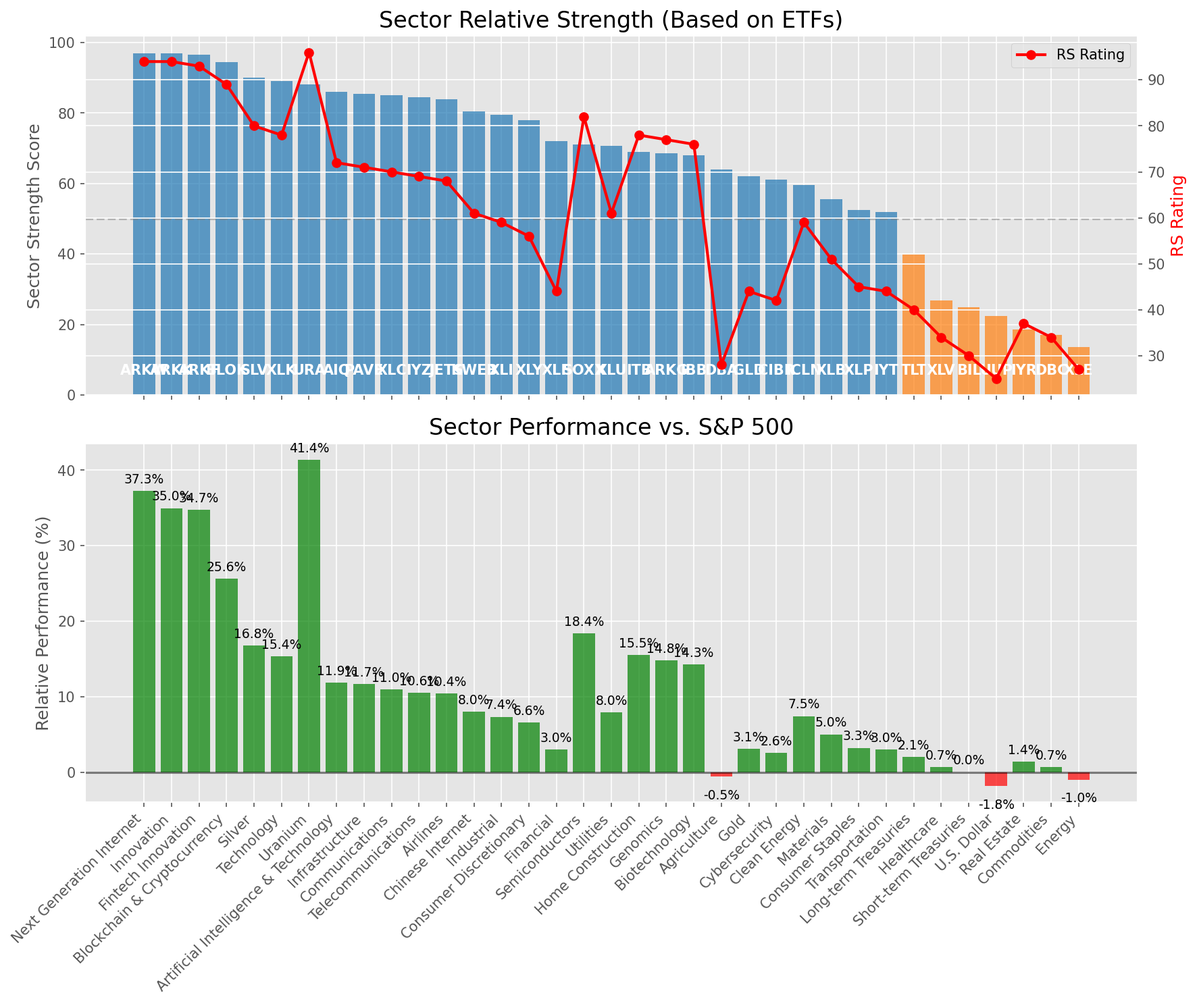
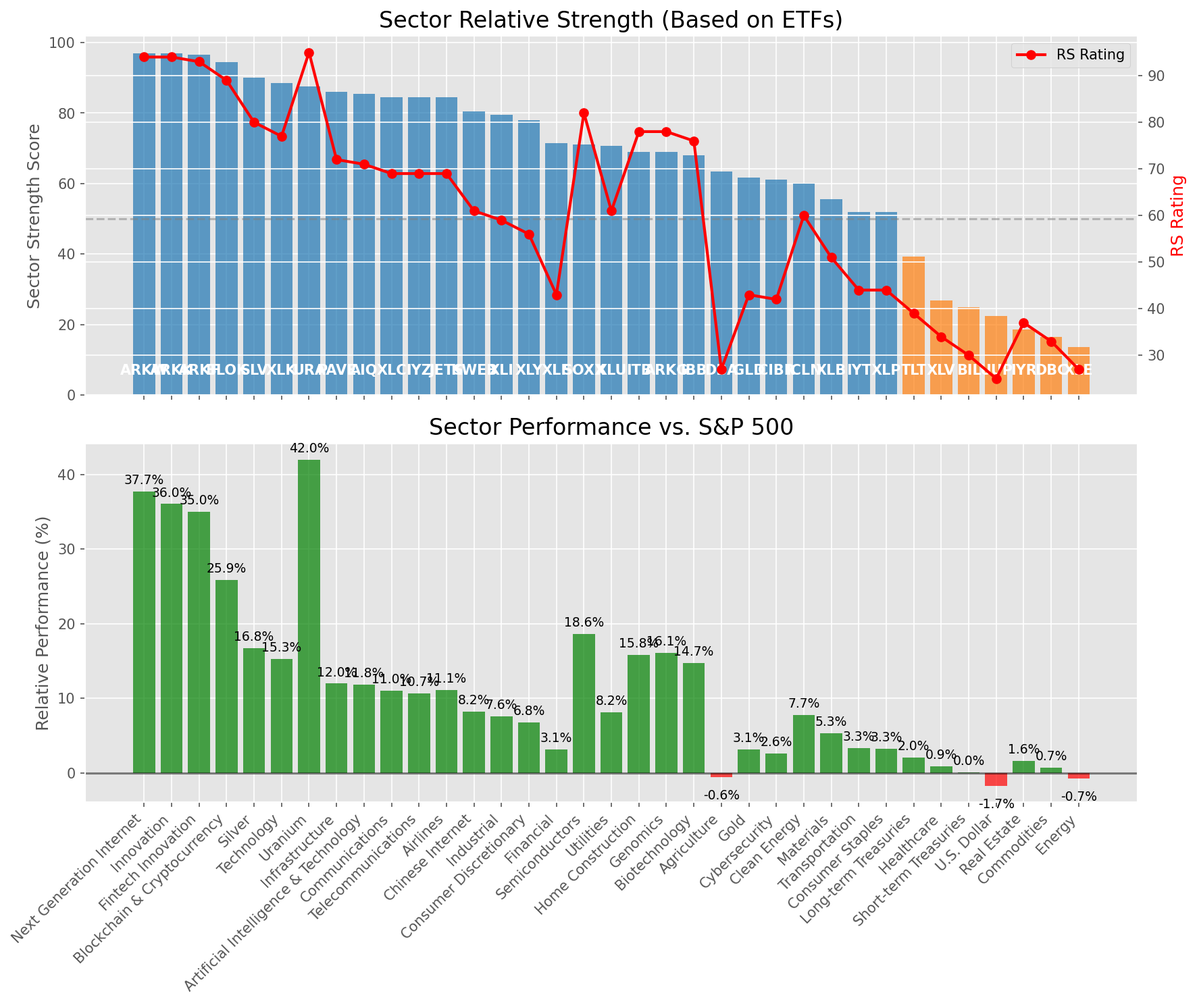
Add market report for 2025-08-13

diff --git a/oneil_relative_strength_report_2025-08-13.md b/oneil_relative_strength_report_2025-08-13.md
@@ -9,11 +9,11 @@
 | Metric | Value |
 |--------|-------|
 | **Market Valuation** | **Overvalued** |
-| **Current Ratio** | 10.45 |
+| **Current Ratio** | 10.46 |
 | **Historical Mean** | 9.72 |
 | **Standard Deviation** | 0.50 |
 | **Z-Score (StdDev from Mean)** | 1.41 |
-| **Total Market Cap** | $317.02 trillion |
+| **Total Market Cap** | $317.32 trillion |
 | **GDP** | $30.33 trillion |
 
 ## **Market Insights**
@@ -49,41 +49,41 @@ Based on William O'Neil's Relative Strength Methodology
 
 | ETF | Strength | RS Rating | Performance | Above Key MAs | Trend | Sector |
 |-----|----------|-----------|-------------|--------------|-------|--------|
-| [ARKW](https://www.tradingview.com/chart/?symbol=ARKW) | 97.0 | 94.0 | 37.29% | 10d ✓, 50d ✓, 200d ✓ | ↗ | Next Generation Internet |
-| [ARKK](https://www.tradingview.com/chart/?symbol=ARKK) | 97.0 | 94.0 | 34.99% | 10d ✓, 50d ✓, 200d ✓ | ↗ | Innovation |
-| [ARKF](https://www.tradingview.com/chart/?symbol=ARKF) | 96.5 | 93.0 | 34.74% | 10d ✓, 50d ✓, 200d ✓ | ↗ | Fintech Innovation |
-| [BLOK](https://www.tradingview.com/chart/?symbol=BLOK) | 94.5 | 89.0 | 25.61% | 10d ✓, 50d ✓, 200d ✓ | ↗ | Blockchain & Cryptocurrency |
+| [ARKW](https://www.tradingview.com/chart/?symbol=ARKW) | 97.0 | 94.0 | 37.72% | 10d ✓, 50d ✓, 200d ✓ | ↗ | Next Generation Internet |
+| [ARKK](https://www.tradingview.com/chart/?symbol=ARKK) | 97.0 | 94.0 | 36.05% | 10d ✓, 50d ✓, 200d ✓ | ↗ | Innovation |
+| [ARKF](https://www.tradingview.com/chart/?symbol=ARKF) | 96.5 | 93.0 | 34.98% | 10d ✓, 50d ✓, 200d ✓ | ↗ | Fintech Innovation |
+| [BLOK](https://www.tradingview.com/chart/?symbol=BLOK) | 94.5 | 89.0 | 25.87% | 10d ✓, 50d ✓, 200d ✓ | ↗ | Blockchain & Cryptocurrency |
 | [SLV](https://www.tradingview.com/chart/?symbol=SLV) | 90.0 | 80.0 | 16.76% | 10d ✓, 50d ✓, 200d ✓ | ↗ | Silver |
-| [XLK](https://www.tradingview.com/chart/?symbol=XLK) | 89.0 | 78.0 | 15.37% | 10d ✓, 50d ✓, 200d ✓ | ↗ | Technology |
-| [URA](https://www.tradingview.com/chart/?symbol=URA) | 88.1 | 96.0 | 41.40% | 10d ✗, 50d ✓, 200d ✓ | ↗ | Uranium |
-| [AIQ](https://www.tradingview.com/chart/?symbol=AIQ) | 86.0 | 72.0 | 11.88% | 10d ✓, 50d ✓, 200d ✓ | ↗ | Artificial Intelligence & Technology |
-| [PAVE](https://www.tradingview.com/chart/?symbol=PAVE) | 85.5 | 71.0 | 11.70% | 10d ✓, 50d ✓, 200d ✓ | ↗ | Infrastructure |
-| [XLC](https://www.tradingview.com/chart/?symbol=XLC) | 85.0 | 70.0 | 10.95% | 10d ✓, 50d ✓, 200d ✓ | ↗ | Communications |
-| [IYZ](https://www.tradingview.com/chart/?symbol=IYZ) | 84.5 | 69.0 | 10.57% | 10d ✓, 50d ✓, 200d ✓ | ↗ | Telecommunications |
-| [JETS](https://www.tradingview.com/chart/?symbol=JETS) | 84.0 | 68.0 | 10.43% | 10d ✓, 50d ✓, 200d ✓ | ↗ | Airlines |
-| [KWEB](https://www.tradingview.com/chart/?symbol=KWEB) | 80.5 | 61.0 | 8.00% | 10d ✓, 50d ✓, 200d ✓ | ↗ | Chinese Internet |
-| [XLI](https://www.tradingview.com/chart/?symbol=XLI) | 79.5 | 59.0 | 7.36% | 10d ✓, 50d ✓, 200d ✓ | ↗ | Industrial |
-| [XLY](https://www.tradingview.com/chart/?symbol=XLY) | 78.0 | 56.0 | 6.57% | 10d ✓, 50d ✓, 200d ✓ | ↗ | Consumer Discretionary |
-| [XLF](https://www.tradingview.com/chart/?symbol=XLF) | 72.0 | 44.0 | 3.04% | 10d ✓, 50d ✓, 200d ✓ | ↗ | Financial |
-| [SOXX](https://www.tradingview.com/chart/?symbol=SOXX) | 71.0 | 82.0 | 18.37% | 10d ✓, 50d ✓, 200d ✓ | ↘ | Semiconductors |
-| [XLU](https://www.tradingview.com/chart/?symbol=XLU) | 70.6 | 61.0 | 7.97% | 10d ✗, 50d ✓, 200d ✓ | ↗ | Utilities |
-| [ITB](https://www.tradingview.com/chart/?symbol=ITB) | 69.0 | 78.0 | 15.52% | 10d ✓, 50d ✓, 200d ✓ | ↘ | Home Construction |
-| [ARKG](https://www.tradingview.com/chart/?symbol=ARKG) | 68.5 | 77.0 | 14.84% | 10d ✓, 50d ✓, 200d ✓ | ↘ | Genomics |
-| [IBB](https://www.tradingview.com/chart/?symbol=IBB) | 68.0 | 76.0 | 14.26% | 10d ✓, 50d ✓, 200d ✓ | ↘ | Biotechnology |
-| [DBA](https://www.tradingview.com/chart/?symbol=DBA) | 64.0 | 28.0 | -0.54% | 10d ✓, 50d ✓, 200d ✓ | ↗ | Agriculture |
-| [GLD](https://www.tradingview.com/chart/?symbol=GLD) | 62.1 | 44.0 | 3.09% | 10d ✗, 50d ✓, 200d ✓ | ↗ | Gold |
-| [CIBR](https://www.tradingview.com/chart/?symbol=CIBR) | 61.1 | 42.0 | 2.57% | 10d ✓, 50d ✗, 200d ✓ | ↗ | Cybersecurity |
-| [ICLN](https://www.tradingview.com/chart/?symbol=ICLN) | 59.5 | 59.0 | 7.46% | 10d ✓, 50d ✓, 200d ✓ | ↘ | Clean Energy |
-| [XLB](https://www.tradingview.com/chart/?symbol=XLB) | 55.5 | 51.0 | 5.04% | 10d ✓, 50d ✓, 200d ✓ | ↘ | Materials |
-| [XLP](https://www.tradingview.com/chart/?symbol=XLP) | 52.5 | 45.0 | 3.25% | 10d ✓, 50d ✓, 200d ✓ | ↘ | Consumer Staples |
-| [IYT](https://www.tradingview.com/chart/?symbol=IYT) | 52.0 | 44.0 | 2.99% | 10d ✓, 50d ✓, 200d ✓ | ↘ | Transportation |
-| [TLT](https://www.tradingview.com/chart/?symbol=TLT) | 39.8 | 40.0 | 2.07% | 10d ✓, 50d ✓, 200d ✗ | ↘ | Long-term Treasuries |
-| [XLV](https://www.tradingview.com/chart/?symbol=XLV) | 26.9 | 34.0 | 0.73% | 10d ✓, 50d ✗, 200d ✗ | ↘ | Healthcare |
+| [XLK](https://www.tradingview.com/chart/?symbol=XLK) | 88.5 | 77.0 | 15.30% | 10d ✓, 50d ✓, 200d ✓ | ↗ | Technology |
+| [URA](https://www.tradingview.com/chart/?symbol=URA) | 87.6 | 95.0 | 41.99% | 10d ✗, 50d ✓, 200d ✓ | ↗ | Uranium |
+| [PAVE](https://www.tradingview.com/chart/?symbol=PAVE) | 86.0 | 72.0 | 11.97% | 10d ✓, 50d ✓, 200d ✓ | ↗ | Infrastructure |
+| [AIQ](https://www.tradingview.com/chart/?symbol=AIQ) | 85.5 | 71.0 | 11.84% | 10d ✓, 50d ✓, 200d ✓ | ↗ | Artificial Intelligence & Technology |
+| [XLC](https://www.tradingview.com/chart/?symbol=XLC) | 84.5 | 69.0 | 11.02% | 10d ✓, 50d ✓, 200d ✓ | ↗ | Communications |
+| [IYZ](https://www.tradingview.com/chart/?symbol=IYZ) | 84.5 | 69.0 | 10.66% | 10d ✓, 50d ✓, 200d ✓ | ↗ | Telecommunications |
+| [JETS](https://www.tradingview.com/chart/?symbol=JETS) | 84.5 | 69.0 | 11.08% | 10d ✓, 50d ✓, 200d ✓ | ↗ | Airlines |
+| [KWEB](https://www.tradingview.com/chart/?symbol=KWEB) | 80.5 | 61.0 | 8.25% | 10d ✓, 50d ✓, 200d ✓ | ↗ | Chinese Internet |
+| [XLI](https://www.tradingview.com/chart/?symbol=XLI) | 79.5 | 59.0 | 7.56% | 10d ✓, 50d ✓, 200d ✓ | ↗ | Industrial |
+| [XLY](https://www.tradingview.com/chart/?symbol=XLY) | 78.0 | 56.0 | 6.77% | 10d ✓, 50d ✓, 200d ✓ | ↗ | Consumer Discretionary |
+| [XLF](https://www.tradingview.com/chart/?symbol=XLF) | 71.5 | 43.0 | 3.14% | 10d ✓, 50d ✓, 200d ✓ | ↗ | Financial |
+| [SOXX](https://www.tradingview.com/chart/?symbol=SOXX) | 71.0 | 82.0 | 18.59% | 10d ✓, 50d ✓, 200d ✓ | ↘ | Semiconductors |
+| [XLU](https://www.tradingview.com/chart/?symbol=XLU) | 70.6 | 61.0 | 8.17% | 10d ✗, 50d ✓, 200d ✓ | ↗ | Utilities |
+| [ITB](https://www.tradingview.com/chart/?symbol=ITB) | 69.0 | 78.0 | 15.84% | 10d ✓, 50d ✓, 200d ✓ | ↘ | Home Construction |
+| [ARKG](https://www.tradingview.com/chart/?symbol=ARKG) | 69.0 | 78.0 | 16.07% | 10d ✓, 50d ✓, 200d ✓ | ↘ | Genomics |
+| [IBB](https://www.tradingview.com/chart/?symbol=IBB) | 68.0 | 76.0 | 14.69% | 10d ✓, 50d ✓, 200d ✓ | ↘ | Biotechnology |
+| [DBA](https://www.tradingview.com/chart/?symbol=DBA) | 63.5 | 27.0 | -0.57% | 10d ✓, 50d ✓, 200d ✓ | ↗ | Agriculture |
+| [GLD](https://www.tradingview.com/chart/?symbol=GLD) | 61.6 | 43.0 | 3.12% | 10d ✗, 50d ✓, 200d ✓ | ↗ | Gold |
+| [CIBR](https://www.tradingview.com/chart/?symbol=CIBR) | 61.1 | 42.0 | 2.62% | 10d ✓, 50d ✗, 200d ✓ | ↗ | Cybersecurity |
+| [ICLN](https://www.tradingview.com/chart/?symbol=ICLN) | 60.0 | 60.0 | 7.73% | 10d ✓, 50d ✓, 200d ✓ | ↘ | Clean Energy |
+| [XLB](https://www.tradingview.com/chart/?symbol=XLB) | 55.5 | 51.0 | 5.30% | 10d ✓, 50d ✓, 200d ✓ | ↘ | Materials |
+| [IYT](https://www.tradingview.com/chart/?symbol=IYT) | 52.0 | 44.0 | 3.33% | 10d ✓, 50d ✓, 200d ✓ | ↘ | Transportation |
+| [XLP](https://www.tradingview.com/chart/?symbol=XLP) | 52.0 | 44.0 | 3.25% | 10d ✓, 50d ✓, 200d ✓ | ↘ | Consumer Staples |
+| [TLT](https://www.tradingview.com/chart/?symbol=TLT) | 39.3 | 39.0 | 2.04% | 10d ✓, 50d ✓, 200d ✗ | ↘ | Long-term Treasuries |
+| [XLV](https://www.tradingview.com/chart/?symbol=XLV) | 26.9 | 34.0 | 0.90% | 10d ✓, 50d ✗, 200d ✗ | ↘ | Healthcare |
 | [BIL](https://www.tradingview.com/chart/?symbol=BIL) | 24.9 | 30.0 | 0.03% | 10d ✓, 50d ✗, 200d ✗ | ↘ | Short-term Treasuries |
-| [UUP](https://www.tradingview.com/chart/?symbol=UUP) | 22.4 | 25.0 | -1.80% | 10d ✗, 50d ✓, 200d ✗ | ↘ | U.S. Dollar |
-| [IYR](https://www.tradingview.com/chart/?symbol=IYR) | 18.5 | 37.0 | 1.41% | 10d ✗, 50d ✗, 200d ✗ | ↘ | Real Estate |
-| [DBC](https://www.tradingview.com/chart/?symbol=DBC) | 17.0 | 34.0 | 0.74% | 10d ✗, 50d ✗, 200d ✗ | ↘ | Commodities |
-| [XLE](https://www.tradingview.com/chart/?symbol=XLE) | 13.5 | 27.0 | -0.96% | 10d ✗, 50d ✗, 200d ✗ | ↘ | Energy |
+| [UUP](https://www.tradingview.com/chart/?symbol=UUP) | 22.4 | 25.0 | -1.74% | 10d ✗, 50d ✓, 200d ✗ | ↘ | U.S. Dollar |
+| [IYR](https://www.tradingview.com/chart/?symbol=IYR) | 18.5 | 37.0 | 1.63% | 10d ✗, 50d ✗, 200d ✗ | ↘ | Real Estate |
+| [DBC](https://www.tradingview.com/chart/?symbol=DBC) | 16.5 | 33.0 | 0.67% | 10d ✗, 50d ✗, 200d ✗ | ↘ | Commodities |
+| [XLE](https://www.tradingview.com/chart/?symbol=XLE) | 13.5 | 27.0 | -0.71% | 10d ✗, 50d ✗, 200d ✗ | ↘ | Energy |
 
 ### **Sector ETF Performance Interpretation**
 
@@ -100,173 +100,168 @@ This table shows the relative strength metrics for different market sectors base
 
 The current market leadership is coming from the following sectors: **Next Generation Internet, Innovation, Fintech Innovation**.
 
-The **Next Generation Internet** sector (represented by **ARKW**) is showing particularly strong relative strength with an RS rating of 94.0 and performance of 37.29% vs. the S&P 500. This sector is trading above its 10-day, 50-day, 200-day moving average(s). Investors should consider focusing on high RS stocks within these leading sectors for potential outperformance.
+The **Next Generation Internet** sector (represented by **ARKW**) is showing particularly strong relative strength with an RS rating of 94.0 and performance of 37.72% vs. the S&P 500. This sector is trading above its 10-day, 50-day, 200-day moving average(s). Investors should consider focusing on high RS stocks within these leading sectors for potential outperformance.
 
 ---
 
 ## **Buy Recommendations**
 
-The following 76 stocks show exceptional relative strength:
+The following 77 stocks show exceptional relative strength:
 
 | RS Rating | Buy Score | Current Price | Chart | Name | Ticker |
 |-----------|-----------|---------------|-------|------|--------|
-| 100 | 100 | $74.02 | [Chart](https://www.tradingview.com/chart/?symbol=MP) | MP Materials Corp. | MP |
-| 100 | 100 | $121.52 | [Chart](https://www.tradingview.com/chart/?symbol=CRDO) | Credo Technology Group Holding Ltd Ordinary Shares | CRDO |
-| 100 | 100 | $67.83 | [Chart](https://www.tradingview.com/chart/?symbol=KTOS) | Kratos Defense & Security Solutions, Inc. | KTOS |
-| 100 | 100 | $204.81 | [Chart](https://www.tradingview.com/chart/?symbol=CLS) | Celestica, Inc. | CLS |
-| 100 | 100 | $69.69 | [Chart](https://www.tradingview.com/chart/?symbol=NBIS) | Nebius Group N.V. Class A Ordinary Shares | NBIS |
-| 99 | 100 | $93.42 | [Chart](https://www.tradingview.com/chart/?symbol=GDXU) | MicroSectors Gold Miners 3x Leveraged ETN | GDXU |
-| 99 | 100 | $98.62 | [Chart](https://www.tradingview.com/chart/?symbol=RYTM) | Rhythm Pharmaceuticals, Inc. Common Stock | RYTM |
-| 98 | 100 | $45.14 | [Chart](https://www.tradingview.com/chart/?symbol=TTMI) | TTM Technologies Inc | TTMI |
-| 98 | 100 | $200.73 | [Chart](https://www.tradingview.com/chart/?symbol=COOP) | Mr. Cooper Group Inc. Common Stock | COOP |
-| 98 | 100 | $175.22 | [Chart](https://www.tradingview.com/chart/?symbol=FUTU) | Futu Holdings Limited American Depositary Shares | FUTU |
-| 98 | 100 | $24.51 | [Chart](https://www.tradingview.com/chart/?symbol=LQDA) | Liquidia Corporation Common Stock | LQDA |
-| 97 | 100 | $88.56 | [Chart](https://www.tradingview.com/chart/?symbol=LIF) | Life360, Inc. Common Stock | LIF |
-| 96 | 100 | $25.31 | [Chart](https://www.tradingview.com/chart/?symbol=ACAD) | Acadia Pharmaceuticals Inc. | ACAD |
-| 96 | 100 | $122.14 | [Chart](https://www.tradingview.com/chart/?symbol=SANM) | Sanmina  Corp | SANM |
-| 96 | 100 | $99.70 | [Chart](https://www.tradingview.com/chart/?symbol=EBAY) | eBay Inc | EBAY |
-| 96 | 100 | $67.25 | [Chart](https://www.tradingview.com/chart/?symbol=MRCY) | Mercury Systems Inc. | MRCY |
-| 96 | 100 | $185.35 | [Chart](https://www.tradingview.com/chart/?symbol=PLTR) | Palantir Technologies Inc. Class A Common Stock | PLTR |
-| 95 | 100 | $53.30 | [Chart](https://www.tradingview.com/chart/?symbol=REVG) | REV Group, Inc. | REVG |
-| 95 | 100 | $57.09 | [Chart](https://www.tradingview.com/chart/?symbol=BTI) | British American Tobacco p.l.c. American Depositary Shares, American Depositary Shares, each representing one Ordinary Share | BTI |
-| 95 | 100 | $57.76 | [Chart](https://www.tradingview.com/chart/?symbol=GH) | Guardant Health, Inc. Common Stock | GH |
-| 95 | 100 | $98.52 | [Chart](https://www.tradingview.com/chart/?symbol=TPB) | Turning Point Brands, Inc. | TPB |
-| 94 | 100 | $55.98 | [Chart](https://www.tradingview.com/chart/?symbol=AU) | AngloGold Ashanti plc | AU |
+| 100 | 100 | $68.26 | [Chart](https://www.tradingview.com/chart/?symbol=KTOS) | Kratos Defense & Security Solutions, Inc. | KTOS |
+| 100 | 100 | $75.57 | [Chart](https://www.tradingview.com/chart/?symbol=MP) | MP Materials Corp. | MP |
+| 100 | 100 | $204.31 | [Chart](https://www.tradingview.com/chart/?symbol=CLS) | Celestica, Inc. | CLS |
+| 100 | 100 | $121.64 | [Chart](https://www.tradingview.com/chart/?symbol=CRDO) | Credo Technology Group Holding Ltd Ordinary Shares | CRDO |
+| 100 | 100 | $70.06 | [Chart](https://www.tradingview.com/chart/?symbol=NBIS) | Nebius Group N.V. Class A Ordinary Shares | NBIS |
+| 99 | 100 | $93.16 | [Chart](https://www.tradingview.com/chart/?symbol=GDXU) | MicroSectors Gold Miners 3x Leveraged ETN | GDXU |
+| 99 | 100 | $108.82 | [Chart](https://www.tradingview.com/chart/?symbol=HOOD) | Robinhood Markets, Inc. Class A Common Stock | HOOD |
+| 99 | 100 | $98.64 | [Chart](https://www.tradingview.com/chart/?symbol=RYTM) | Rhythm Pharmaceuticals, Inc. Common Stock | RYTM |
+| 98 | 100 | $177.57 | [Chart](https://www.tradingview.com/chart/?symbol=FUTU) | Futu Holdings Limited American Depositary Shares | FUTU |
+| 98 | 100 | $201.28 | [Chart](https://www.tradingview.com/chart/?symbol=COOP) | Mr. Cooper Group Inc. Common Stock | COOP |
+| 98 | 100 | $24.71 | [Chart](https://www.tradingview.com/chart/?symbol=LQDA) | Liquidia Corporation Common Stock | LQDA |
+| 97 | 100 | $45.06 | [Chart](https://www.tradingview.com/chart/?symbol=TTMI) | TTM Technologies Inc | TTMI |
+| 97 | 100 | $88.73 | [Chart](https://www.tradingview.com/chart/?symbol=LIF) | Life360, Inc. Common Stock | LIF |
+| 96 | 100 | $121.45 | [Chart](https://www.tradingview.com/chart/?symbol=SANM) | Sanmina  Corp | SANM |
+| 96 | 100 | $100.02 | [Chart](https://www.tradingview.com/chart/?symbol=EBAY) | eBay Inc | EBAY |
+| 96 | 100 | $68.46 | [Chart](https://www.tradingview.com/chart/?symbol=MRCY) | Mercury Systems Inc. | MRCY |
+| 96 | 100 | $25.30 | [Chart](https://www.tradingview.com/chart/?symbol=ACAD) | Acadia Pharmaceuticals Inc. | ACAD |
+| 96 | 100 | $184.92 | [Chart](https://www.tradingview.com/chart/?symbol=PLTR) | Palantir Technologies Inc. Class A Common Stock | PLTR |
+| 96 | 100 | $99.77 | [Chart](https://www.tradingview.com/chart/?symbol=TPB) | Turning Point Brands, Inc. | TPB |
+| 95 | 100 | $57.16 | [Chart](https://www.tradingview.com/chart/?symbol=BTI) | British American Tobacco p.l.c. American Depositary Shares, American Depositary Shares, each representing one Ordinary Share | BTI |
+| 95 | 100 | $58.11 | [Chart](https://www.tradingview.com/chart/?symbol=GH) | Guardant Health, Inc. Common Stock | GH |
+| 95 | 100 | $53.57 | [Chart](https://www.tradingview.com/chart/?symbol=REVG) | REV Group, Inc. | REVG |
+| 94 | 100 | $113.30 | [Chart](https://www.tradingview.com/chart/?symbol=TPR) | Tapestry, Inc. Common Stock | TPR |
+| 94 | 100 | $55.86 | [Chart](https://www.tradingview.com/chart/?symbol=AU) | AngloGold Ashanti plc | AU |
 | 94 | 100 | $31.36 | [Chart](https://www.tradingview.com/chart/?symbol=PAAS) | Pan American Silver Corp. | PAAS |
-| 94 | 100 | $161.95 | [Chart](https://www.tradingview.com/chart/?symbol=ARKW) | ARK Next Generation Internet ETF | ARKW |
-| 94 | 100 | $54.19 | [Chart](https://www.tradingview.com/chart/?symbol=SIL) | Global X Silver Miners ETF (NEW) | SIL |
-| 94 | 100 | $113.26 | [Chart](https://www.tradingview.com/chart/?symbol=TPR) | Tapestry, Inc. Common Stock | TPR |
-| 93 | 100 | $121.78 | [Chart](https://www.tradingview.com/chart/?symbol=PPLT) | abrdn Physical Platinum Shares ETF | PPLT |
-| 93 | 100 | $30.93 | [Chart](https://www.tradingview.com/chart/?symbol=OR) | OR Royalties Inc. | OR |
-| 93 | 100 | $30.85 | [Chart](https://www.tradingview.com/chart/?symbol=SRAD) | Sportradar Group AG Class A Ordinary Shares | SRAD |
-| 93 | 100 | $55.31 | [Chart](https://www.tradingview.com/chart/?symbol=ARKF) | ARK Fintech Innovation ETF | ARKF |
-| 93 | 100 | $33.15 | [Chart](https://www.tradingview.com/chart/?symbol=IIIV) | i3 Verticals, Inc. Class A Common Stock | IIIV |
-| 92 | 100 | $36.16 | [Chart](https://www.tradingview.com/chart/?symbol=DB) | Deutsche Bank Aktiengesellschaft | DB |
-| 92 | 100 | $58.74 | [Chart](https://www.tradingview.com/chart/?symbol=CALX) | CALIX, INC. | CALX |
-| 92 | 100 | $26.14 | [Chart](https://www.tradingview.com/chart/?symbol=TFPM) | Triple Flag Precious Metals Corp. | TFPM |
-| 91 | 100 | $28.98 | [Chart](https://www.tradingview.com/chart/?symbol=KAR) | OPENLANE, Inc | KAR |
-| 91 | 100 | $59.73 | [Chart](https://www.tradingview.com/chart/?symbol=VIK) | Viking Holdings Ltd | VIK |
-| 91 | 100 | $119.89 | [Chart](https://www.tradingview.com/chart/?symbol=SXT) | Sensient Technology Corporation | SXT |
-| 90 | 100 | $22.86 | [Chart](https://www.tradingview.com/chart/?symbol=MAG) | MAG Silver Corp. | MAG |
-| 90 | 100 | $109.44 | [Chart](https://www.tradingview.com/chart/?symbol=APH) | Amphenol Corporation | APH |
-| 89 | 100 | $44.43 | [Chart](https://www.tradingview.com/chart/?symbol=LTM) | LATAM Airlines Group S.A. American Depositary Shares (each representing two thousand (2,000) shares of Common Stock) | LTM |
+| 94 | 100 | $54.15 | [Chart](https://www.tradingview.com/chart/?symbol=SIL) | Global X Silver Miners ETF (NEW) | SIL |
+| 94 | 100 | $162.45 | [Chart](https://www.tradingview.com/chart/?symbol=ARKW) | ARK Next Generation Internet ETF | ARKW |
+| 93 | 100 | $122.03 | [Chart](https://www.tradingview.com/chart/?symbol=PPLT) | abrdn Physical Platinum Shares ETF | PPLT |
+| 93 | 100 | $30.85 | [Chart](https://www.tradingview.com/chart/?symbol=OR) | OR Royalties Inc. | OR |
+| 93 | 100 | $33.08 | [Chart](https://www.tradingview.com/chart/?symbol=IIIV) | i3 Verticals, Inc. Class A Common Stock | IIIV |
+| 93 | 100 | $55.41 | [Chart](https://www.tradingview.com/chart/?symbol=ARKF) | ARK Fintech Innovation ETF | ARKF |
+| 93 | 100 | $30.92 | [Chart](https://www.tradingview.com/chart/?symbol=SRAD) | Sportradar Group AG Class A Ordinary Shares | SRAD |
+| 92 | 100 | $36.15 | [Chart](https://www.tradingview.com/chart/?symbol=DB) | Deutsche Bank Aktiengesellschaft | DB |
+| 92 | 100 | $26.09 | [Chart](https://www.tradingview.com/chart/?symbol=TFPM) | Triple Flag Precious Metals Corp. | TFPM |
+| 92 | 100 | $58.78 | [Chart](https://www.tradingview.com/chart/?symbol=CALX) | CALIX, INC. | CALX |
+| 91 | 100 | $28.89 | [Chart](https://www.tradingview.com/chart/?symbol=KAR) | OPENLANE, Inc | KAR |
+| 91 | 100 | $59.95 | [Chart](https://www.tradingview.com/chart/?symbol=VIK) | Viking Holdings Ltd | VIK |
+| 91 | 100 | $120.66 | [Chart](https://www.tradingview.com/chart/?symbol=SXT) | Sensient Technology Corporation | SXT |
+| 90 | 100 | $109.25 | [Chart](https://www.tradingview.com/chart/?symbol=APH) | Amphenol Corporation | APH |
+| 90 | 100 | $22.26 | [Chart](https://www.tradingview.com/chart/?symbol=MIR) | Mirion Technologies, Inc. | MIR |
+| 90 | 100 | $44.79 | [Chart](https://www.tradingview.com/chart/?symbol=LTM) | LATAM Airlines Group S.A. American Depositary Shares (each representing two thousand (2,000) shares of Common Stock) | LTM |
+| 89 | 100 | $22.86 | [Chart](https://www.tradingview.com/chart/?symbol=MAG) | MAG Silver Corp. | MAG |
 | 89 | 100 | $273.62 | [Chart](https://www.tradingview.com/chart/?symbol=IDCC) | InterDigital, Inc. | IDCC |
-| 88 | 100 | $58.06 | [Chart](https://www.tradingview.com/chart/?symbol=GDX) | VanEck Gold Miners ETF | GDX |
-| 88 | 100 | $133.55 | [Chart](https://www.tradingview.com/chart/?symbol=AEM) | Agnico Eagle Mines Ltd. | AEM |
-| 88 | 100 | $164.00 | [Chart](https://www.tradingview.com/chart/?symbol=VSEC) | VSE Corp | VSEC |
-| 89 | 99 | $67.53 | [Chart](https://www.tradingview.com/chart/?symbol=MAIN) | Main Street Capital Corporation | MAIN |
+| 89 | 100 | $165.57 | [Chart](https://www.tradingview.com/chart/?symbol=VSEC) | VSE Corp | VSEC |
+| 88 | 100 | $133.42 | [Chart](https://www.tradingview.com/chart/?symbol=AEM) | Agnico Eagle Mines Ltd. | AEM |
+| 88 | 100 | $58.04 | [Chart](https://www.tradingview.com/chart/?symbol=GDX) | VanEck Gold Miners ETF | GDX |
 | 89 | 99 | $95.23 | [Chart](https://www.tradingview.com/chart/?symbol=C) | Citigroup Inc. | C |
-| 89 | 99 | $494.28 | [Chart](https://www.tradingview.com/chart/?symbol=CW) | Curtiss-Wright Corp. | CW |
-| 88 | 99 | $21.62 | [Chart](https://www.tradingview.com/chart/?symbol=MIR) | Mirion Technologies, Inc. | MIR |
-| 87 | 99 | $73.13 | [Chart](https://www.tradingview.com/chart/?symbol=GDXJ) | VanEck Junior Gold Miners ETF | GDXJ |
-| 87 | 99 | $38.58 | [Chart](https://www.tradingview.com/chart/?symbol=AS) | Amer Sports, Inc. | AS |
-| 88 | 98 | $53.19 | [Chart](https://www.tradingview.com/chart/?symbol=FHI) | Federated Hermes, Inc. | FHI |
-| 88 | 98 | $196.03 | [Chart](https://www.tradingview.com/chart/?symbol=AWI) | Armstrong World Industries, Inc. | AWI |
-| 85 | 98 | $48.85 | [Chart](https://www.tradingview.com/chart/?symbol=CIB) | Grupo Cibest S.A. American Depositary Shares (each representing four (4) Preferred Shares) | CIB |
-| 84 | 98 | $20.36 | [Chart](https://www.tradingview.com/chart/?symbol=BCS) | Barclays PLC | BCS |
-| 87 | 97 | $49.11 | [Chart](https://www.tradingview.com/chart/?symbol=FAST) | Fastenal Co | FAST |
-| 87 | 97 | $743.23 | [Chart](https://www.tradingview.com/chart/?symbol=GS) | Goldman Sachs Group Inc. | GS |
-| 86 | 97 | $251.30 | [Chart](https://www.tradingview.com/chart/?symbol=BAP) | Credicorp LTD | BAP |
-| 83 | 96 | $167.00 | [Chart](https://www.tradingview.com/chart/?symbol=IRTC) | iRhythm Technologies, Inc | IRTC |
-| 85 | 95 | $448.50 | [Chart](https://www.tradingview.com/chart/?symbol=APP) | Applovin Corporation Class A Common Stock | APP |
-| 83 | 95 | $62.44 | [Chart](https://www.tradingview.com/chart/?symbol=SHLD) | Global X Defense Tech ETF | SHLD |
-| 83 | 95 | $63.86 | [Chart](https://www.tradingview.com/chart/?symbol=CAKE) | Cheesecake Factory (The) | CAKE |
-| 82 | 95 | $119.62 | [Chart](https://www.tradingview.com/chart/?symbol=GILD) | Gilead Sciences Inc | GILD |
-| 82 | 95 | $58.20 | [Chart](https://www.tradingview.com/chart/?symbol=ERJ) | Embraer S.A. | ERJ |
-| 83 | 94 | $24.72 | [Chart](https://www.tradingview.com/chart/?symbol=ING) | ING Groep N.V. American Depositary Shares | ING |
-| 82 | 94 | $90.96 | [Chart](https://www.tradingview.com/chart/?symbol=LLYVK) | Liberty Media Corporation Series C Liberty Live Common Stock | LLYVK |
-| 80 | 94 | $40.43 | [Chart](https://www.tradingview.com/chart/?symbol=AHR) | American Healthcare REIT, Inc. | AHR |
-| 80 | 93 | $47.93 | [Chart](https://www.tradingview.com/chart/?symbol=EWP) | iShares MSCI Spain ETF | EWP |
-| 80 | 93 | $102.75 | [Chart](https://www.tradingview.com/chart/?symbol=ORLY) | O'Reilly Automotive, Inc. | ORLY |
+| 87 | 99 | $38.80 | [Chart](https://www.tradingview.com/chart/?symbol=AS) | Amer Sports, Inc. | AS |
+| 89 | 98 | $17.23 | [Chart](https://www.tradingview.com/chart/?symbol=ARLO) | Arlo Technologies, Inc. | ARLO |
+| 88 | 98 | $67.50 | [Chart](https://www.tradingview.com/chart/?symbol=MAIN) | Main Street Capital Corporation | MAIN |
+| 88 | 98 | $53.32 | [Chart](https://www.tradingview.com/chart/?symbol=FHI) | Federated Hermes, Inc. | FHI |
+| 88 | 98 | $494.20 | [Chart](https://www.tradingview.com/chart/?symbol=CW) | Curtiss-Wright Corp. | CW |
+| 87 | 98 | $73.09 | [Chart](https://www.tradingview.com/chart/?symbol=GDXJ) | VanEck Junior Gold Miners ETF | GDXJ |
+| 84 | 98 | $20.39 | [Chart](https://www.tradingview.com/chart/?symbol=BCS) | Barclays PLC | BCS |
+| 87 | 97 | $195.72 | [Chart](https://www.tradingview.com/chart/?symbol=AWI) | Armstrong World Industries, Inc. | AWI |
+| 87 | 97 | $744.38 | [Chart](https://www.tradingview.com/chart/?symbol=GS) | Goldman Sachs Group Inc. | GS |
+| 86 | 96 | $49.12 | [Chart](https://www.tradingview.com/chart/?symbol=FAST) | Fastenal Co | FAST |
+| 85 | 96 | $250.46 | [Chart](https://www.tradingview.com/chart/?symbol=BAP) | Credicorp LTD | BAP |
+| 83 | 96 | $166.63 | [Chart](https://www.tradingview.com/chart/?symbol=IRTC) | iRhythm Technologies, Inc | IRTC |
+| 83 | 95 | $64.31 | [Chart](https://www.tradingview.com/chart/?symbol=CAKE) | Cheesecake Factory (The) | CAKE |
+| 83 | 95 | $62.51 | [Chart](https://www.tradingview.com/chart/?symbol=SHLD) | Global X Defense Tech ETF | SHLD |
+| 82 | 95 | $58.41 | [Chart](https://www.tradingview.com/chart/?symbol=ERJ) | Embraer S.A. | ERJ |
+| 82 | 95 | $120.01 | [Chart](https://www.tradingview.com/chart/?symbol=GILD) | Gilead Sciences Inc | GILD |
+| 84 | 94 | $445.33 | [Chart](https://www.tradingview.com/chart/?symbol=APP) | Applovin Corporation Class A Common Stock | APP |
+| 83 | 94 | $24.74 | [Chart](https://www.tradingview.com/chart/?symbol=ING) | ING Groep N.V. American Depositary Shares | ING |
+| 82 | 94 | $91.38 | [Chart](https://www.tradingview.com/chart/?symbol=LLYVK) | Liberty Media Corporation Series C Liberty Live Common Stock | LLYVK |
+| 80 | 94 | $40.54 | [Chart](https://www.tradingview.com/chart/?symbol=AHR) | American Healthcare REIT, Inc. | AHR |
+| 80 | 93 | $48.79 | [Chart](https://www.tradingview.com/chart/?symbol=CIB) | Grupo Cibest S.A. American Depositary Shares (each representing four (4) Preferred Shares) | CIB |
+| 82 | 92 | $147.40 | [Chart](https://www.tradingview.com/chart/?symbol=PPA) | Invesco Aerospace & Defense ETF | PPA |
+| 82 | 92 | $191.06 | [Chart](https://www.tradingview.com/chart/?symbol=ASND) | Ascendis Pharma A/S American Depositary Shares | ASND |
 | 82 | 92 | $13.05 | [Chart](https://www.tradingview.com/chart/?symbol=PSLV) | Sprott Physical Silver Trust | PSLV |
-| 82 | 92 | $191.10 | [Chart](https://www.tradingview.com/chart/?symbol=ASND) | Ascendis Pharma A/S American Depositary Shares | ASND |
+| 82 | 92 | $28.88 | [Chart](https://www.tradingview.com/chart/?symbol=CPS) | Cooper-Standard Automotive Inc. | CPS |
+| 80 | 92 | $422.44 | [Chart](https://www.tradingview.com/chart/?symbol=CYBR) | CyberArk Software Ltd. | CYBR |
 | 80 | 92 | $35.71 | [Chart](https://www.tradingview.com/chart/?symbol=APG) | APi Group Corporation | APG |
-| 80 | 92 | $422.22 | [Chart](https://www.tradingview.com/chart/?symbol=CYBR) | CyberArk Software Ltd. | CYBR |
-| 80 | 91 | $36.67 | [Chart](https://www.tradingview.com/chart/?symbol=SIVR) | abrdn Physical Silver Shares ETF | SIVR |
+| 80 | 91 | $36.68 | [Chart](https://www.tradingview.com/chart/?symbol=SIVR) | abrdn Physical Silver Shares ETF | SIVR |
 | 80 | 91 | $34.95 | [Chart](https://www.tradingview.com/chart/?symbol=SLV) | iShares Silver Trust | SLV |
-| 80 | 91 | $38.73 | [Chart](https://www.tradingview.com/chart/?symbol=TDS) | Telephone and Data Systems Inc. | TDS |
-| 80 | 90 | $19.25 | [Chart](https://www.tradingview.com/chart/?symbol=DAN) | Dana Incorporated | DAN |
+| 80 | 90 | $19.30 | [Chart](https://www.tradingview.com/chart/?symbol=DAN) | Dana Incorporated | DAN |
 
 ---
 
 
 ## **Sell Recommendations**
 
-The following 71 stocks show deteriorating relative strength:
+The following 65 stocks show deteriorating relative strength:
 
 | RS Rating | Sell Score | Current Price | Chart | Name | Ticker |
 |-----------|------------|---------------|-------|------|--------|
-| 1 | 100 | $199.66 | [Chart](https://www.tradingview.com/chart/?symbol=LULU) | lululemon athletica inc. | LULU |
-| 1 | 100 | $11.67 | [Chart](https://www.tradingview.com/chart/?symbol=NVDS) | Investment Managers Series Trust II Tradr 1.5X Short NVDA Daily ETF | NVDS |
-| 2 | 100 | $22.55 | [Chart](https://www.tradingview.com/chart/?symbol=TECS) | Direxion Daily Technology Bear 3x Shares | TECS |
-| 3 | 100 | $25.89 | [Chart](https://www.tradingview.com/chart/?symbol=CRI) | Carter's Inc. | CRI |
-| 3 | 100 | $22.57 | [Chart](https://www.tradingview.com/chart/?symbol=ZSL) | ProShares UltraShort Silver | ZSL |
-| 5 | 100 | $23.67 | [Chart](https://www.tradingview.com/chart/?symbol=CRTO) | Criteo S.A. | CRTO |
-| 6 | 100 | $75.72 | [Chart](https://www.tradingview.com/chart/?symbol=ESTC) | Elastic N.V. | ESTC |
+| 1 | 100 | $11.63 | [Chart](https://www.tradingview.com/chart/?symbol=NVDS) | Investment Managers Series Trust II Tradr 1.5X Short NVDA Daily ETF | NVDS |
+| 1 | 100 | $199.53 | [Chart](https://www.tradingview.com/chart/?symbol=LULU) | lululemon athletica inc. | LULU |
+| 2 | 100 | $22.61 | [Chart](https://www.tradingview.com/chart/?symbol=TECS) | Direxion Daily Technology Bear 3x Shares | TECS |
+| 3 | 100 | $26.06 | [Chart](https://www.tradingview.com/chart/?symbol=CRI) | Carter's Inc. | CRI |
+| 3 | 100 | $22.55 | [Chart](https://www.tradingview.com/chart/?symbol=ZSL) | ProShares UltraShort Silver | ZSL |
+| 5 | 100 | $23.95 | [Chart](https://www.tradingview.com/chart/?symbol=CRTO) | Criteo S.A. | CRTO |
+| 6 | 100 | $39.62 | [Chart](https://www.tradingview.com/chart/?symbol=SDOW) | ProShares UltraPro Short Dow 30 | SDOW |
+| 6 | 100 | $75.82 | [Chart](https://www.tradingview.com/chart/?symbol=ESTC) | Elastic N.V. | ESTC |
 | 6 | 100 | $10.90 | [Chart](https://www.tradingview.com/chart/?symbol=PATH) | UiPath, Inc. | PATH |
-| 7 | 100 | $17.02 | [Chart](https://www.tradingview.com/chart/?symbol=S) | SentinelOne, Inc. | S |
-| 7 | 100 | $21.08 | [Chart](https://www.tradingview.com/chart/?symbol=GAP) | The Gap, Inc. | GAP |
-| 7 | 100 | $39.76 | [Chart](https://www.tradingview.com/chart/?symbol=SDOW) | ProShares UltraPro Short Dow 30 | SDOW |
-| 9 | 100 | $32.21 | [Chart](https://www.tradingview.com/chart/?symbol=JD) | JD.com, Inc. | JD |
-| 9 | 100 | $29.16 | [Chart](https://www.tradingview.com/chart/?symbol=BBWI) | Bath & Body Works, Inc. | BBWI |
-| 15 | 100 | $16.58 | [Chart](https://www.tradingview.com/chart/?symbol=CTO) | CTO Realty Growth, Inc. | CTO |
-| 2 | 99 | $13.99 | [Chart](https://www.tradingview.com/chart/?symbol=CLBT) | Cellebrite DI Ltd. Class A Ordinary Shares | CLBT |
-| 11 | 99 | $23.62 | [Chart](https://www.tradingview.com/chart/?symbol=DXD) | ProShares UltraShort Dow 30 | DXD |
-| 13 | 98 | $72.32 | [Chart](https://www.tradingview.com/chart/?symbol=EXPO) | Exponent Inc | EXPO |
-| 16 | 98 | $14.20 | [Chart](https://www.tradingview.com/chart/?symbol=VRE) | Veris Residential, Inc. | VRE |
-| 18 | 98 | $12.38 | [Chart](https://www.tradingview.com/chart/?symbol=NU) | Nu Holdings Ltd. | NU |
-| 10 | 97 | $16.41 | [Chart](https://www.tradingview.com/chart/?symbol=BTAL) | AGF U.S. Market Neutral Anti-Beta Fund | BTAL |
-| 8 | 96 | $31.49 | [Chart](https://www.tradingview.com/chart/?symbol=DAR) | DARLING INGREDIENTS INC. | DAR |
-| 14 | 96 | $34.60 | [Chart](https://www.tradingview.com/chart/?symbol=AMH) | AMERICAN HOMES 4 RENT | AMH |
-| 18 | 96 | $25.44 | [Chart](https://www.tradingview.com/chart/?symbol=FCPT) | Four Corners Property Trust, Inc. | FCPT |
-| 7 | 95 | $40.05 | [Chart](https://www.tradingview.com/chart/?symbol=BILL) | BILL Holdings, Inc. | BILL |
-| 19 | 95 | $46.52 | [Chart](https://www.tradingview.com/chart/?symbol=EDU) | New Oriental Education and Technology Group, Inc. American Depositary Shares (each representing ten (10) Common Shares) | EDU |
-| 10 | 94 | $28.73 | [Chart](https://www.tradingview.com/chart/?symbol=CNX) | CNX Resources Corporation | CNX |
-| 11 | 94 | $79.03 | [Chart](https://www.tradingview.com/chart/?symbol=SIGI) | Selective Insurance Group | SIGI |
-| 14 | 94 | $38.40 | [Chart](https://www.tradingview.com/chart/?symbol=SH) | ProShares Short S&P500 | SH |
-| 14 | 94 | $38.16 | [Chart](https://www.tradingview.com/chart/?symbol=UDR) | UDR, Inc. | UDR |
-| 16 | 94 | $37.42 | [Chart](https://www.tradingview.com/chart/?symbol=KSA) | iShares MSCI Saudi Arabia ETF | KSA |
-| 12 | 92 | $784.89 | [Chart](https://www.tradingview.com/chart/?symbol=EQIX) | Equinix, Inc. Common Stock REIT | EQIX |
-| 12 | 92 | $105.56 | [Chart](https://www.tradingview.com/chart/?symbol=CPT) | Camden Property Trust | CPT |
-| 16 | 92 | $50.16 | [Chart](https://www.tradingview.com/chart/?symbol=BIRK) | Birkenstock Holding plc | BIRK |
-| 19 | 92 | $37.64 | [Chart](https://www.tradingview.com/chart/?symbol=VNO) | Vornado Realty Trust | VNO |
-| 16 | 91 | $281.47 | [Chart](https://www.tradingview.com/chart/?symbol=PSA) | Public Storage | PSA |
-| 16 | 91 | $13.85 | [Chart](https://www.tradingview.com/chart/?symbol=EWTX) | Edgewise Therapeutics, Inc. Common Stock | EWTX |
-| 18 | 91 | $12.18 | [Chart](https://www.tradingview.com/chart/?symbol=PMT) | PennyMac Mortgage Investment Trust | PMT |
-| 20 | 91 | $48.73 | [Chart](https://www.tradingview.com/chart/?symbol=FR) | First Industrial Realty Trust, Inc. | FR |
-| 22 | 91 | $22.63 | [Chart](https://www.tradingview.com/chart/?symbol=CURB) | Curbline Properties Corp. | CURB |
-| 15 | 90 | $29.82 | [Chart](https://www.tradingview.com/chart/?symbol=CNQ) | Canadian Natural Resources Limited | CNQ |
-| 15 | 90 | $12.96 | [Chart](https://www.tradingview.com/chart/?symbol=CCRN) | Cross Country Healthcare Inc | CCRN |
-| 23 | 90 | $37.77 | [Chart](https://www.tradingview.com/chart/?symbol=FLIN) | Franklin FTSE India ETF | FLIN |
-| 18 | 89 | $12.99 | [Chart](https://www.tradingview.com/chart/?symbol=NAVI) | Navient Corporation | NAVI |
-| 23 | 89 | $12.24 | [Chart](https://www.tradingview.com/chart/?symbol=WSR) | Whitestone REIT | WSR |
-| 24 | 88 | $15.42 | [Chart](https://www.tradingview.com/chart/?symbol=FXN) | First Trust Energy AlphaDEX Fund | FXN |
-| 18 | 86 | $25.24 | [Chart](https://www.tradingview.com/chart/?symbol=DOG) | ProShares Short Dow30 | DOG |
-| 21 | 86 | $105.83 | [Chart](https://www.tradingview.com/chart/?symbol=PLD) | PROLOGIS, INC. | PLD |
-| 22 | 86 | $121.35 | [Chart](https://www.tradingview.com/chart/?symbol=PSX) | PHILLIPS 66 | PSX |
-| 20 | 85 | $36.06 | [Chart](https://www.tradingview.com/chart/?symbol=MSGE) | Madison Square Garden Entertainment Corp. | MSGE |
-| 23 | 84 | $44.64 | [Chart](https://www.tradingview.com/chart/?symbol=SW) | Smurfit Westrock plc | SW |
-| 21 | 83 | $30.33 | [Chart](https://www.tradingview.com/chart/?symbol=EPRT) | Essential Properties Realty Trust, Inc. | EPRT |
-| 22 | 80 | $218.51 | [Chart](https://www.tradingview.com/chart/?symbol=SBAC) | SBA Communications Corp | SBAC |
-| 23 | 80 | $15.89 | [Chart](https://www.tradingview.com/chart/?symbol=MARA) | MARA Holdings, Inc. Common Stock | MARA |
-| 26 | 80 | $12.13 | [Chart](https://www.tradingview.com/chart/?symbol=RQI) | COHEN & STEERS QUALITY INCOME REALTY FUND, INC. COMMON SHARES | RQI |
-| 21 | 79 | $274.81 | [Chart](https://www.tradingview.com/chart/?symbol=CB) | Chubb Limited | CB |
-| 23 | 79 | $70.33 | [Chart](https://www.tradingview.com/chart/?symbol=PYPL) | PayPal Holdings, Inc. Common Stock | PYPL |
-| 30 | 79 | $14.88 | [Chart](https://www.tradingview.com/chart/?symbol=GBDC) | Golub Capital BDC, Inc. | GBDC |
+| 7 | 100 | $17.09 | [Chart](https://www.tradingview.com/chart/?symbol=S) | SentinelOne, Inc. | S |
+| 9 | 100 | $32.41 | [Chart](https://www.tradingview.com/chart/?symbol=JD) | JD.com, Inc. | JD |
+| 15 | 100 | $16.62 | [Chart](https://www.tradingview.com/chart/?symbol=CTO) | CTO Realty Growth, Inc. | CTO |
+| 10 | 99 | $29.50 | [Chart](https://www.tradingview.com/chart/?symbol=BBWI) | Bath & Body Works, Inc. | BBWI |
+| 11 | 99 | $23.57 | [Chart](https://www.tradingview.com/chart/?symbol=DXD) | ProShares UltraShort Dow 30 | DXD |
+| 15 | 99 | $14.21 | [Chart](https://www.tradingview.com/chart/?symbol=VRE) | Veris Residential, Inc. | VRE |
+| 17 | 99 | $12.38 | [Chart](https://www.tradingview.com/chart/?symbol=NU) | Nu Holdings Ltd. | NU |
+| 13 | 98 | $72.37 | [Chart](https://www.tradingview.com/chart/?symbol=EXPO) | Exponent Inc | EXPO |
+| 10 | 97 | $16.38 | [Chart](https://www.tradingview.com/chart/?symbol=BTAL) | AGF U.S. Market Neutral Anti-Beta Fund | BTAL |
+| 18 | 96 | $25.41 | [Chart](https://www.tradingview.com/chart/?symbol=FCPT) | Four Corners Property Trust, Inc. | FCPT |
+| 9 | 95 | $31.73 | [Chart](https://www.tradingview.com/chart/?symbol=DAR) | DARLING INGREDIENTS INC. | DAR |
+| 13 | 95 | $38.38 | [Chart](https://www.tradingview.com/chart/?symbol=SH) | ProShares Short S&P500 | SH |
+| 14 | 95 | $34.74 | [Chart](https://www.tradingview.com/chart/?symbol=AMH) | AMERICAN HOMES 4 RENT | AMH |
+| 15 | 95 | $37.41 | [Chart](https://www.tradingview.com/chart/?symbol=KSA) | iShares MSCI Saudi Arabia ETF | KSA |
+| 19 | 95 | $46.56 | [Chart](https://www.tradingview.com/chart/?symbol=EDU) | New Oriental Education and Technology Group, Inc. American Depositary Shares (each representing ten (10) Common Shares) | EDU |
+| 10 | 94 | $28.89 | [Chart](https://www.tradingview.com/chart/?symbol=CNX) | CNX Resources Corporation | CNX |
+| 14 | 94 | $38.27 | [Chart](https://www.tradingview.com/chart/?symbol=UDR) | UDR, Inc. | UDR |
+| 7 | 93 | $22.50 | [Chart](https://www.tradingview.com/chart/?symbol=CLW) | Clearwater Paper Corporation | CLW |
+| 11 | 93 | $79.06 | [Chart](https://www.tradingview.com/chart/?symbol=SIGI) | Selective Insurance Group | SIGI |
+| 12 | 93 | $106.21 | [Chart](https://www.tradingview.com/chart/?symbol=CPT) | Camden Property Trust | CPT |
+| 12 | 92 | $786.48 | [Chart](https://www.tradingview.com/chart/?symbol=EQIX) | Equinix, Inc. Common Stock REIT | EQIX |
+| 21 | 92 | $22.66 | [Chart](https://www.tradingview.com/chart/?symbol=CURB) | Curbline Properties Corp. | CURB |
+| 16 | 91 | $50.27 | [Chart](https://www.tradingview.com/chart/?symbol=BIRK) | Birkenstock Holding plc | BIRK |
+| 17 | 91 | $12.19 | [Chart](https://www.tradingview.com/chart/?symbol=PMT) | PennyMac Mortgage Investment Trust | PMT |
+| 20 | 91 | $48.85 | [Chart](https://www.tradingview.com/chart/?symbol=FR) | First Industrial Realty Trust, Inc. | FR |
+| 20 | 91 | $37.85 | [Chart](https://www.tradingview.com/chart/?symbol=VNO) | Vornado Realty Trust | VNO |
+| 15 | 90 | $29.89 | [Chart](https://www.tradingview.com/chart/?symbol=CNQ) | Canadian Natural Resources Limited | CNQ |
+| 17 | 90 | $12.98 | [Chart](https://www.tradingview.com/chart/?symbol=NAVI) | Navient Corporation | NAVI |
+| 22 | 90 | $12.24 | [Chart](https://www.tradingview.com/chart/?symbol=WSR) | Whitestone REIT | WSR |
+| 22 | 89 | $37.80 | [Chart](https://www.tradingview.com/chart/?symbol=FLIN) | Franklin FTSE India ETF | FLIN |
+| 17 | 88 | $13.97 | [Chart](https://www.tradingview.com/chart/?symbol=EWTX) | Edgewise Therapeutics, Inc. Common Stock | EWTX |
+| 17 | 86 | $25.20 | [Chart](https://www.tradingview.com/chart/?symbol=DOG) | ProShares Short Dow30 | DOG |
+| 21 | 86 | $106.08 | [Chart](https://www.tradingview.com/chart/?symbol=PLD) | PROLOGIS, INC. | PLD |
+| 25 | 86 | $15.46 | [Chart](https://www.tradingview.com/chart/?symbol=FXN) | First Trust Energy AlphaDEX Fund | FXN |
+| 19 | 85 | $163.54 | [Chart](https://www.tradingview.com/chart/?symbol=EGP) | EastGroup Properties Inc. | EGP |
+| 22 | 85 | $122.07 | [Chart](https://www.tradingview.com/chart/?symbol=PSX) | PHILLIPS 66 | PSX |
+| 23 | 84 | $44.76 | [Chart](https://www.tradingview.com/chart/?symbol=SW) | Smurfit Westrock plc | SW |
+| 21 | 83 | $30.42 | [Chart](https://www.tradingview.com/chart/?symbol=EPRT) | Essential Properties Realty Trust, Inc. | EPRT |
+| 19 | 82 | $15.63 | [Chart](https://www.tradingview.com/chart/?symbol=MARA) | MARA Holdings, Inc. Common Stock | MARA |
+| 21 | 82 | $36.37 | [Chart](https://www.tradingview.com/chart/?symbol=MSGE) | Madison Square Garden Entertainment Corp. | MSGE |
+| 21 | 80 | $218.74 | [Chart](https://www.tradingview.com/chart/?symbol=SBAC) | SBA Communications Corp | SBAC |
+| 21 | 79 | $274.98 | [Chart](https://www.tradingview.com/chart/?symbol=CB) | Chubb Limited | CB |
+| 26 | 79 | $12.14 | [Chart](https://www.tradingview.com/chart/?symbol=RQI) | COHEN & STEERS QUALITY INCOME REALTY FUND, INC. COMMON SHARES | RQI |
 | 33 | 79 | $13.19 | [Chart](https://www.tradingview.com/chart/?symbol=MED) | Medifast, Inc. | MED |
-| 22 | 78 | $311.40 | [Chart](https://www.tradingview.com/chart/?symbol=LAD) | Lithia Motors, Inc. | LAD |
-| 28 | 78 | $35.76 | [Chart](https://www.tradingview.com/chart/?symbol=FFIN) | First Financial Bankshares Inc | FFIN |
-| 31 | 77 | $14.82 | [Chart](https://www.tradingview.com/chart/?symbol=DEI) | Douglas Emmett, Inc. | DEI |
-| 29 | 76 | $134.87 | [Chart](https://www.tradingview.com/chart/?symbol=VLO) | Valero Energy Corporation | VLO |
-| 27 | 73 | $72.22 | [Chart](https://www.tradingview.com/chart/?symbol=ADC) | Agree Realty Corporation | ADC |
-| 33 | 73 | $46.20 | [Chart](https://www.tradingview.com/chart/?symbol=GLPI) | Gaming and Leisure Properties, Inc. | GLPI |
-| 30 | 72 | $91.58 | [Chart](https://www.tradingview.com/chart/?symbol=BIL) | SPDR Bloomberg 1-3 Month T-Bill ETF | BIL |
-| 35 | 72 | $10.25 | [Chart](https://www.tradingview.com/chart/?symbol=NMCO) | Nuveen Municipal Credit Opportunities Fund | NMCO |
-| 34 | 71 | $24.14 | [Chart](https://www.tradingview.com/chart/?symbol=FLBL) | Franklin Senior Loan ETF | FLBL |
-| 34 | 71 | $21.75 | [Chart](https://www.tradingview.com/chart/?symbol=DBC) | Invesco DB Commodity Index Tracking Fund | DBC |
-| 35 | 71 | $13.13 | [Chart](https://www.tradingview.com/chart/?symbol=RA) | Brookfield Real Assets Income Fund Inc. | RA |
-| 33 | 69 | $48.29 | [Chart](https://www.tradingview.com/chart/?symbol=IP) | International Paper Co. | IP |
-| 38 | 65 | $31.97 | [Chart](https://www.tradingview.com/chart/?symbol=SRRK) | Scholar Rock Holding Corporation Common Stock | SRRK |
+| 23 | 78 | $70.41 | [Chart](https://www.tradingview.com/chart/?symbol=PYPL) | PayPal Holdings, Inc. Common Stock | PYPL |
+| 30 | 78 | $14.88 | [Chart](https://www.tradingview.com/chart/?symbol=GBDC) | Golub Capital BDC, Inc. | GBDC |
+| 28 | 77 | $35.83 | [Chart](https://www.tradingview.com/chart/?symbol=FFIN) | First Financial Bankshares Inc | FFIN |
+| 34 | 77 | $14.46 | [Chart](https://www.tradingview.com/chart/?symbol=MNR) | Mach Natural Resources LP Common Units representing Limited Partner Interests | MNR |
+| 32 | 76 | $14.88 | [Chart](https://www.tradingview.com/chart/?symbol=DEI) | Douglas Emmett, Inc. | DEI |
+| 32 | 74 | $46.16 | [Chart](https://www.tradingview.com/chart/?symbol=GLPI) | Gaming and Leisure Properties, Inc. | GLPI |
+| 32 | 73 | $135.60 | [Chart](https://www.tradingview.com/chart/?symbol=VLO) | Valero Energy Corporation | VLO |
+| 30 | 71 | $91.58 | [Chart](https://www.tradingview.com/chart/?symbol=BIL) | SPDR Bloomberg 1-3 Month T-Bill ETF | BIL |
+| 33 | 71 | $21.73 | [Chart](https://www.tradingview.com/chart/?symbol=DBC) | Invesco DB Commodity Index Tracking Fund | DBC |
+| 35 | 71 | $13.14 | [Chart](https://www.tradingview.com/chart/?symbol=RA) | Brookfield Real Assets Income Fund Inc. | RA |
+| 37 | 71 | $10.31 | [Chart](https://www.tradingview.com/chart/?symbol=NMCO) | Nuveen Municipal Credit Opportunities Fund | NMCO |
+| 36 | 66 | $48.58 | [Chart](https://www.tradingview.com/chart/?symbol=IP) | International Paper Co. | IP |
 
 ## **Methodology**
 
